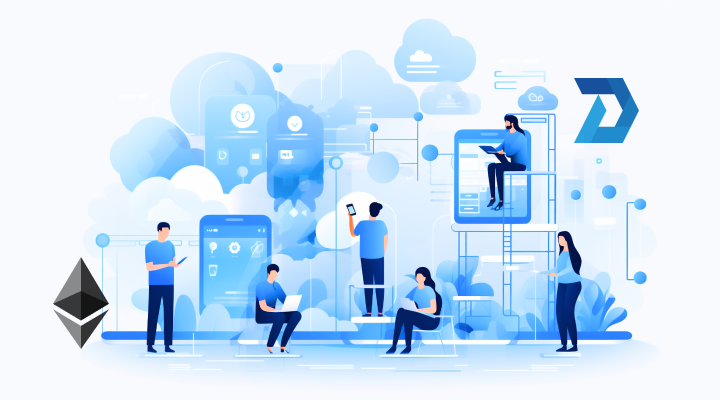
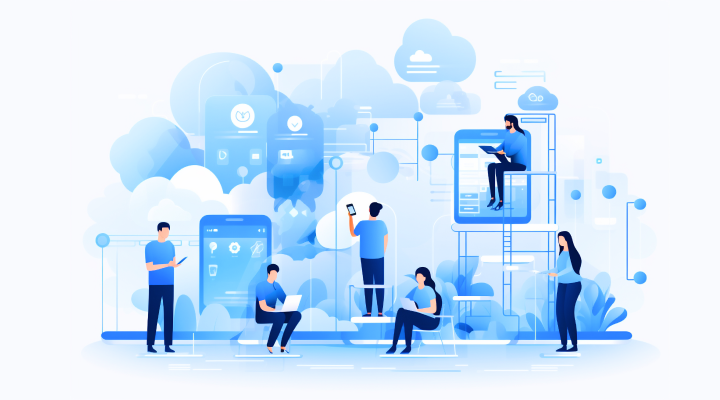
a

Changed region(s): [[0.7944, 0.18, 0.8861, 0.36], [0.0611, 0.63, 0.1528, 0.87]]

diff --git a/src/app/(index)/components/dChain.tsx b/src/app/(index)/components/dChain.tsx
@@ -96,8 +96,10 @@ const DChain = () => {
                 <div className="w-full max-w-[1440px] mx-auto md:mt-[160px] mt-[100px]">
                     <p className="text-center md:text-[32px] text-[20px] font-black leading-[1.3] tracking-[0.1em] px-5">Reasons to Use DwETH on DIVER Chain</p>
                     <div className="fade-up flex max-md:flex-col items-center md:items-start gap-6 md:gap-[35px] mt-16">
-                        <figure className="md:rounded-r-[30px] overflow-hidden max-xl:w-1/2 max-md:w-auto">
+                        <figure className="md:rounded-r-[30px] overflow-hidden max-xl:w-1/2 max-md:w-auto relative">
                             <img src="/assets/images/d-chain-thumb.png" alt="" />
+                            <img className="animate-[fuwafuwa_1.8s_ease-in-out_infinite_alternate] absolute w-[9.0278%] top-[19%] right-[11%]" src="/assets/images/d-chain-thumb-01.png" alt="" />
+                            <img className="animate-[fuwafuwa_1.8s_ease-in-out_infinite_alternate] absolute w-[7.777%] left-[7.5%] top-[64%]" src="/assets/images/d-chain-thumb-02.png" alt="" />
                         </figure>
                         <div className="flex flex-1 max-md:px-5">
                             <p className="md:text-[18px] text-[15px] font-medium leading-loose tracking-[0.1em] max-w-[487px]">
